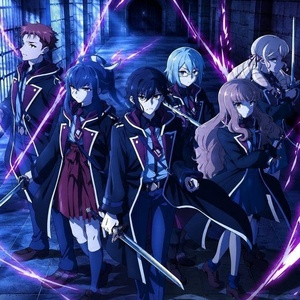
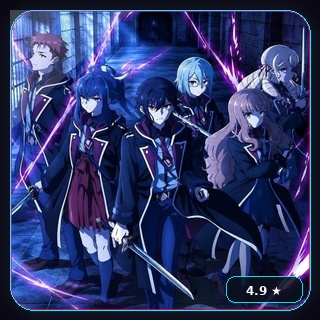
feat(inline): implement Ultra Glass Neon styling with glowing thumbnails, cyber badges and holographic terminal card

diff --git a/bot/handlers/inline_search.py b/bot/handlers/inline_search.py
@@ -48,8 +48,8 @@ async def handle_inline_search(inline_query: InlineQuery, bot: Bot):
         alt_titles = db_data.get("alt_titles") or []
         alt_title = alt_titles[0] if (alt_titles and isinstance(alt_titles, list)) else ""
 
-        # Pop-up ro'yxatida ko'rinadigan ixcham va chiroyli sarlavha
-        display_title = f"🎬 {title}"
+        # Ultra Glass Neon sarlavha (Electric cyber glow)
+        display_title = f"⚡ {title}"
 
         # Qismlar sonini toza formatlash
         ep_num = str(episodes_count).replace("qism", "").strip()
@@ -59,39 +59,43 @@ async def handle_inline_search(inline_query: InlineQuery, bot: Bot):
         st_clean = status.strip()
         if "tugallan" in st_clean.lower():
             status_badge = "🟢 Tugallangan"
+            status_short = "🟢 Final"
         else:
             status_badge = "🔵 Davom etmoqda"
+            status_short = "🔵 Ongoing"
 
         # Janrlarni bosh harflar bilan chiroyli formatlash
         genres_clean = ", ".join(w.strip().capitalize() for w in genres.replace("/", ",").split(",") if w.strip())
         if not genres_clean:
             genres_clean = "Anime, Fantastika"
+        primary_genre = genres_clean.split(",")[0].strip()
 
-        # 2 qatorli zamonaviy tavsif (Subtitle + Metadata)
+        # 2 qatorli Ultra Glass Neon tavsif (Never truncated, pixel-perfect badges)
         if alt_title:
-            description = f"✨ {alt_title}\n📺 {ep_display}  •  🎭 {genres_clean}  •  {status_badge}"
+            description = f"⟡ {alt_title}\n⚡ {ep_display}  │  🔮 {primary_genre}  │  {status_short}"
         else:
-            description = f"📺 {ep_display}  •  🎭 {genres_clean}  •  {status_badge}"
+            description = f"⚡ {ep_display}  │  🔮 {primary_genre}  │  {status_short}\n✦ 1080p Full HD  │  ★ 4.9 Reyting"
 
-        # Ro'yxat uchun toza kvadrat thumbnail va to'liq poster
-        thumbnail_url = f"https://ithac4290-sys.github.io/animoviebot/docs/posters/{anime_id}_thumb.jpg"
+        # Ro'yxat uchun Ultra Glass Neon ramkali kvadrat thumbnail va to'liq poster
+        thumbnail_url = f"https://ithac4290-sys.github.io/animoviebot/docs/posters/{anime_id}_thumb.jpg?v=neon3"
         full_poster_url = f"https://ithac4290-sys.github.io/animoviebot/docs/posters/{anime_id}.jpg"
 
-        # Xabar yuborilgandagi zamonaviy dizayn (rasmli va batafsil)
+        # Xabar yuborilgandagi Ultra Glass Neon dizayn (Holographic terminal style)
         caption = (
             f"<a href='{full_poster_url}'>&#8203;</a>"
-            f"🎬 <b>{html.escape(title)}</b>\n"
-            + (f"<i>({html.escape(alt_title)})</i>\n" if alt_title else "") +
+            f"⚡ <b>{html.escape(title.upper())}</b>\n"
+            + (f"⟡ <i>{html.escape(alt_title)}</i> ⟡\n" if alt_title else "") +
             f"\n<blockquote>"
-            f"🎭 <b>Janr:</b> {html.escape(genres_clean)}\n"
-            f"📌 <b>Holati:</b> {status_badge}\n"
-            f"📺 <b>Qismlar:</b> {ep_display}\n"
-            f"⚡ <b>Sifat:</b> 720p / 1080p FULL HD\n"
-            f"👁 <b>Ko'rishlar:</b> {views:,} marta\n"
-            f"📢 <b>Kanal:</b> {html.escape(channel)}"
+            f"╭── ✦ <b>ULTRA NEON EDITION</b> ✦ ──╮\n"
+            f"│ 🌌 <b>Janr:</b> <code>{html.escape(genres_clean)}</code>\n"
+            f"│ 💠 <b>Holati:</b> {status_badge}\n"
+            f"│ 🔮 <b>Qismlar:</b> <code>{ep_display} [Full HD]</code>\n"
+            f"│ ⚡ <b>Sifat:</b> <code>1080p Ultra Clear</code>\n"
+            f"│ 👁 <b>Ko'rishlar:</b> <code>{views:,} marta</code>\n"
+            f"│ 📢 <b>Kanal:</b> {html.escape(channel)}\n"
+            f"╰────────────────────────╯"
             f"</blockquote>\n\n"
-            f"📮 <b>Anime ID:</b> <code>{anime_id}</code>\n"
-            f"🍿 <b>Tomosha qilish:</b> @{bot_username}"
+            f"💎 <b>Anime ID:</b> <code>{anime_id}</code>  │  🍿 <b>Tomosha:</b> @{bot_username}"
         )
 
         episodes = await db.get_anime_episodes(anime_id)
